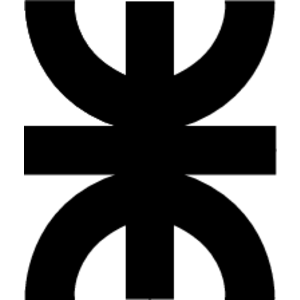
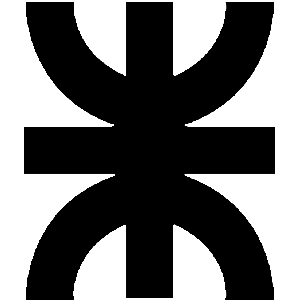
arreglos al webService, ahora borra las imagenes de la carpeta

diff --git a/NoticiasServices/estilo.css b/NoticiasServices/estilo.css
@@ -169,7 +169,10 @@ table {
 }
 
 td {
-    padding: 15px;
+    padding: 10px
 }
 
-</style>
+.logo {
+  width: 100px;
+  height: 100px
+}

diff --git a/NoticiasServices/index.php b/NoticiasServices/index.php
@@ -20,7 +20,7 @@
 				</script>
 	</head>
 	<body>
-        <h1>UTN-FRLP Noticias</h1>
+        <h1><img src="rcs/UTN.png" class="logo">UTN-FRLP Noticias</h1>
 
 		<?php
 			session_start();
@@ -84,7 +84,6 @@
 				<div style="margin-right:100px"><input name="subir" type="submit" value="Subir"></div>
     </form>
 
-    <p> Su usuario ingreso correctamente.</p>
     <?php
         echo '<p class="logout"><a href="logout.php">Logout</a></p>';
     ?>
@@ -92,10 +91,13 @@
 		<?php
 		if(isset($_GET['delete_id']))
 			{
-			 $sql_query="DELETE FROM noticias WHERE id=".$_GET['delete_id'];
-			 mysqli_query($con,$sql_query);
-			 header("Location: index.php");
-			 unlink("uploads/" .$row["noticia"]);
+				$resultado = @mysqli_query($con,"SELECT * FROM `noticias` WHERE id=".$_GET['delete_id']);
+				$fila = mysqli_fetch_assoc($resultado);
+				$file = $fila['noticia'];
+				unlink("uploads/" . $file);
+			 	$sql_query="DELETE FROM noticias WHERE id=".$_GET['delete_id'];
+			 	mysqli_query($con,$sql_query);
+			 	header("Location: index.php");
 		}
 
 		echo "<form class='rows'>";
@@ -122,11 +124,10 @@
 				} // fin del bucle de instrucciones
 				mysqli_free_result($result); // Liberamos los registros
 				mysqli_close($link); // Cerramos la conexion con la base de datos
-				echo "<hr>";
 				echo "</form>";
 			}
 			else {
-				echo "no hay datos";
+				echo "<p>No hay noticias cargadas</p>";
 			}
 		 } ?>
 	</body>
